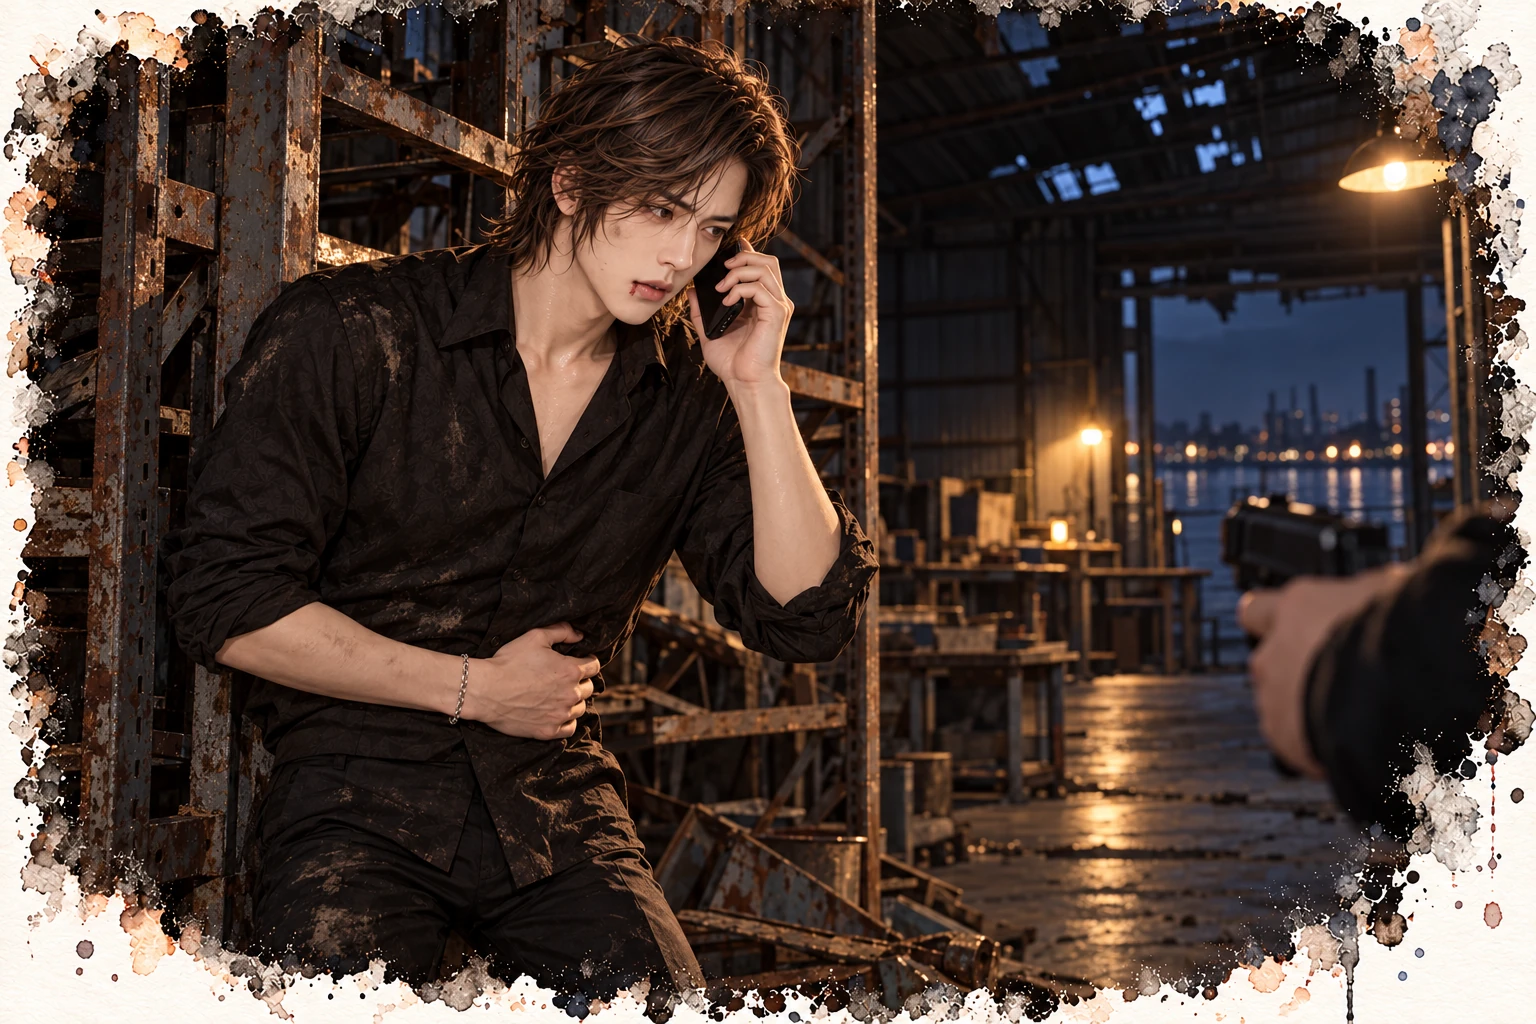
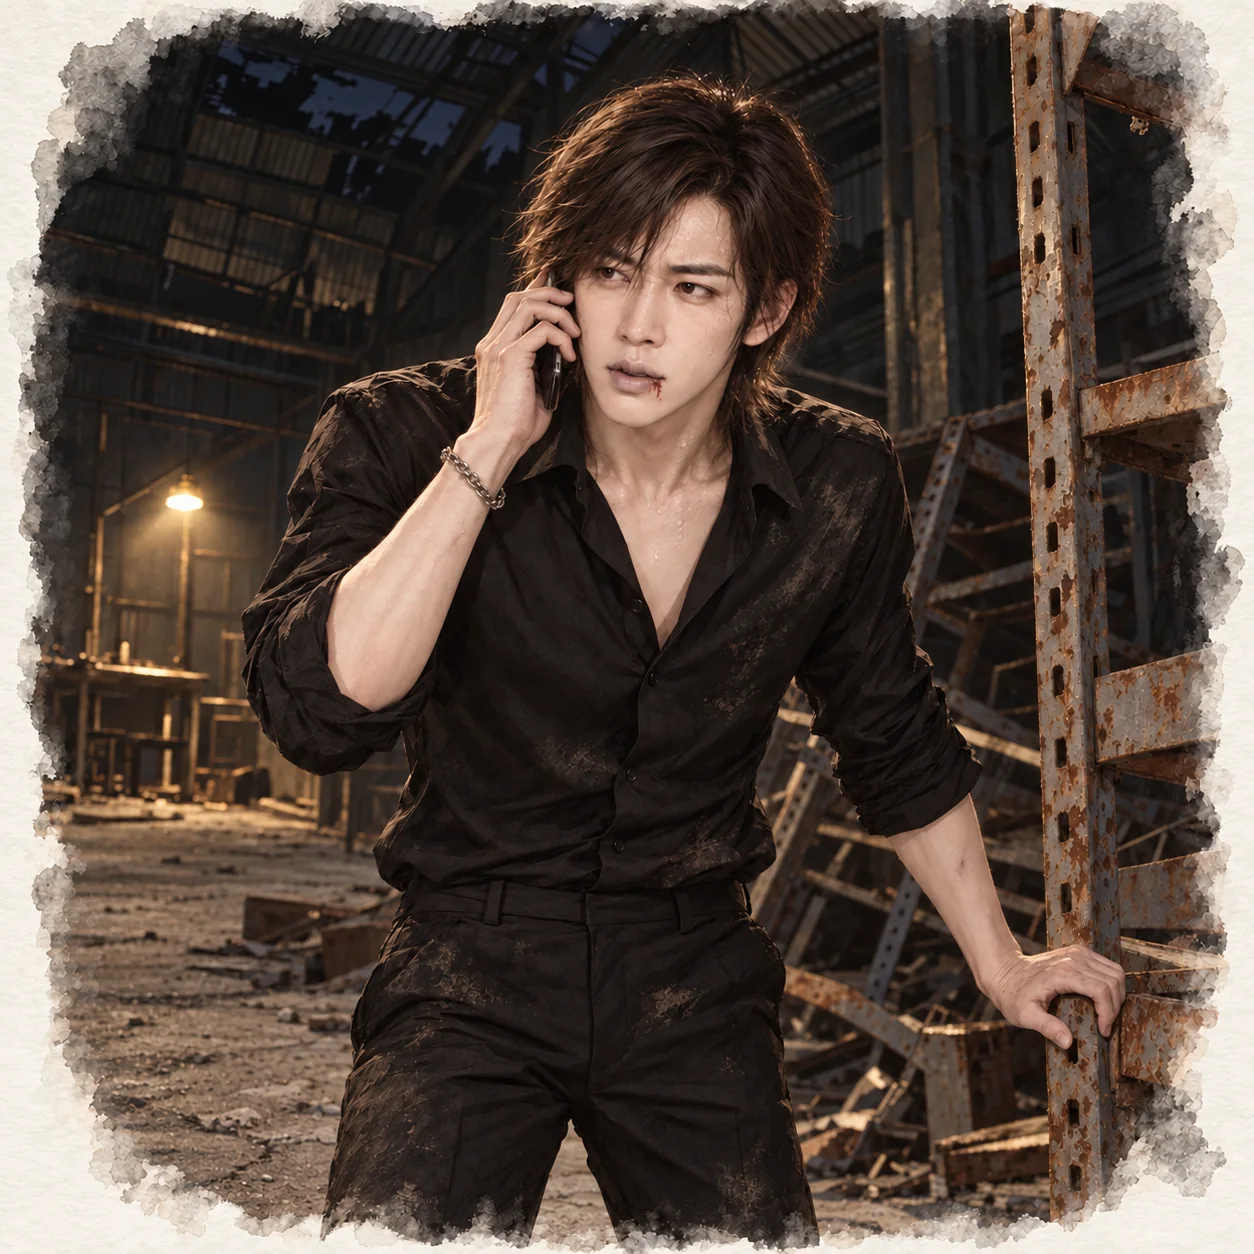
沒有招牌的酒吧 第一部第十章：替換江澈插圖
Claude-Session: https://claude.ai/code/session_01HUwf2ENyDuzceKaKYawxmj

diff --git a/novels/no-signboard-bar/chapter-10.html b/novels/no-signboard-bar/chapter-10.html
@@ -256,7 +256,7 @@
 <p>我閉上眼睛。</p>
 </section>
 <section class="pov pov-jiang" data-name="江澈">
-<div class="pov-opening"><h2 class="pov-title" id="pov-4"><span>敘事視角</span>江澈</h2><a class="pov-art" href="../../assets/novels/no-signboard-bar/chapter-10-jiang-che.webp" target="_blank" rel="noopener" aria-label="開啟江澈插圖大圖"><img src="../../assets/novels/no-signboard-bar/chapter-10-jiang-che.webp" alt="江澈在舊倉庫接林棠的電話，一手護著肋骨，對面有人持槍。" width="1536" height="1024" loading="lazy" decoding="async"><span class="pov-cap">掛掉。打一一九。現在。</span></a><div class="pov-intro"><p>河邊這間舊倉庫，是老吳帶我入行的地方。十七歲那年，他把我帶來這裡，教我怎麼站，怎麼等，怎麼讓一個人再也醒不過來。</p>
+<div class="pov-opening"><h2 class="pov-title" id="pov-4"><span>敘事視角</span>江澈</h2><a class="pov-art" href="../../assets/novels/no-signboard-bar/chapter-10-jiang-che.webp?v=20261013" target="_blank" rel="noopener" aria-label="開啟江澈插圖大圖"><img src="../../assets/novels/no-signboard-bar/chapter-10-jiang-che.webp?v=20261013" alt="河邊的舊倉庫，鐵架倒了一地，江澈撐著生鏽的鐵架站起來，嘴角帶血，把手機貼在耳邊接林棠的電話。" width="1254" height="1254" loading="lazy" decoding="async"><span class="pov-cap">掛掉。打一一九。現在。</span></a><div class="pov-intro"><p>河邊這間舊倉庫，是老吳帶我入行的地方。十七歲那年，他把我帶來這裡，教我怎麼站，怎麼等，怎麼讓一個人再也醒不過來。</p>
 <p>從這裡開始，在這裡結束，也算乾淨。</p>
 <p>我約的是凌晨一點，傍晚就到了。</p></div></div>
 <p>鐵捲門只拉起一半，我彎腰鑽進去。裡面比外面冷，水泥地吸了好幾年的濕氣，冷從鞋底一路往上爬。空氣裡是鐵鏽和河水的味道，底下還有一點機油，淡到大概是很多年前留下的。</p>
